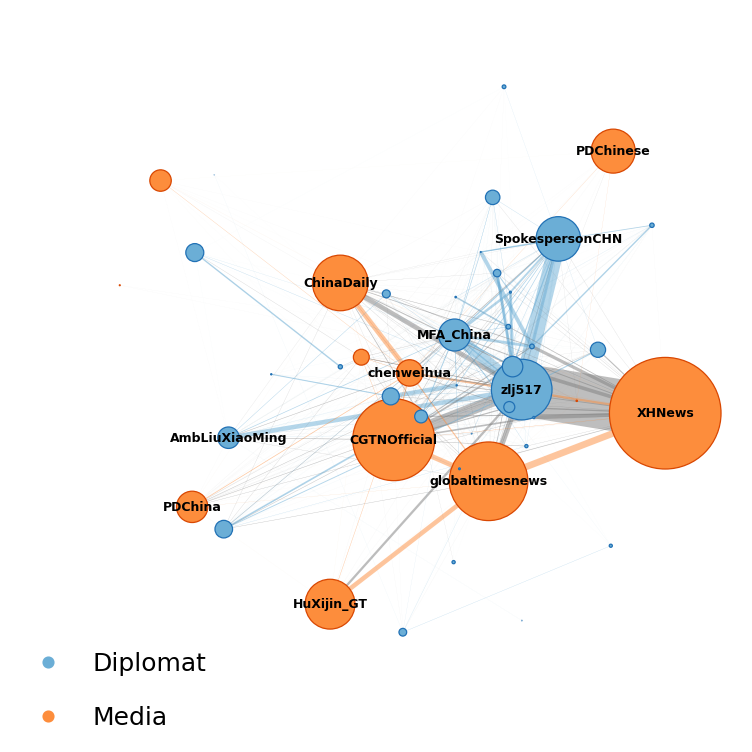
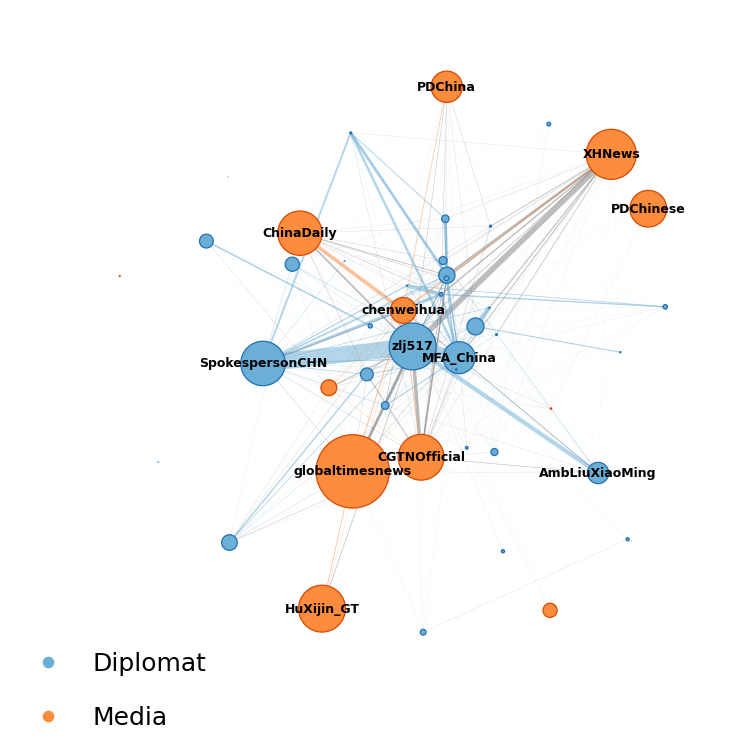
re-run analysis for sanity and small modifications

diff --git a/networks/src/network_main.py b/networks/src/network_main.py
@@ -45,6 +45,7 @@ def get_labels(G, type_str, type_lst, n_labels):
         'SpokespersonCHN', 
         'MFA_China',
         'zlj517',
+        'AmbLiuXiaoMing'
         #'PDChina', 
         #'AmbLiuXiaoMing', 
         #'AmbCuiTianKai',
@@ -299,19 +300,23 @@ def main(n_labels, infile, outfolder):
     title = 'Diplomats and Media sub-network (nodesize: total number of mentions)'
     filename = 'network_focus_mentions'
     
-    ## fix the fact that we now have two files 
-    if infile == "/work/cn-some/china-twitter/networks/data/clean/df_full.csv":
-        nudge_triple = [ # nudge triple specifically for this data & seed
-            ('MFA_China', 0, 0.1),
+
+    if infile == "/work/cn-some/china-twitter/networks/data/clean/df.csv": # have not pruned this yet
+        print('nudging full data set')
+        nudge_triple = [
+            ('MFA_China', 0.05, -0.05),
+            ('chenweihua', -0.03, 0.02),
             ('AmbassadeChine', 0, 0.05),
-            ('PDChina', 0, 0.05),
-            ('ChnMission', -0.05, 0.1),
-            ('consulat_de', -0.05, 0),
-            ('chenweihua', -0.05, 0)
-            ] 
+            ('CHN_UN_NY', -0.06, 0.6),
+            ('ChinaMissionGva', 0, 0.04),
+            ('Chinamission2un', 0.02, 0.055),
+            ('ChnMission', 0, 0.03),
+            ('consulat_de', 0.07, 0)
+        ]
     
-    if infile == "/work/cn-some/china-twitter/networks/data/clean/rt_df_full.csv":
+    else:
         nudge_triple = [ # nudge triple specifically for this data and seed
+        print('nudging retweet data set')
             ('consulat_de', -0.05, 0),
             ('Chinamission2un', 0.05, 0),
             ('zlj517', -0.1, -0.05),
@@ -321,15 +326,7 @@ def main(n_labels, infile, outfolder):
             ('CHN_UN_NY', 0.05, -0.05),
             ('PDChina', 0.05, 0.05)
         ]
-    else: # have not pruned this yet
-        nudge_triple = [
-            ('MFA_China', 0.05, -0.05),
-            ('chenweihua', 0, 0.02),
-            ('AmbassadeChine', 0, 0.05),
-            ('CHN_UN_NY', -0.02, 0.12),
-            ('ChinaMissionGva', 0, 0.02),
-            ('Chinamission2un', 0, 0.02)
-        ]
+
 
     plot_network(
         G = G, 
@@ -341,33 +338,6 @@ def main(n_labels, infile, outfolder):
         edge_color = edgecolor,
         labeldict = labeldict_mentions,
         node_size_lst = nodesize_mentions, 
-        edge_width_lst = edgesize,
-        node_divisor = node_divisor,
-        edge_divisor = edge_divisor,
-        title = title,
-        filename = filename,
-        outfolder = outfolder,
-        k = k,
-        seed = seed,
-        nudge_triple = nudge_triple)
-
-    ## unweighted degree
-    print('--> generating unweighted degree plot')
-    node_divisor = 0.05*10
-    edge_divisor = 100*edge_mult
-    title = 'Diplomats and Media sub-network (nodesize: number of neighbors)'
-    filename = 'network_focus_unweighted_degree'
-
-    plot_network(
-        G = G, 
-        nodelst = nodelst_unweighted,
-        edgelst = edgelst,
-        color_dct = c_node,
-        node_color = nodecolor_unweighted,
-        nodeedge_color = nodeedgecolor_unweighted,
-        edge_color = edgecolor,
-        labeldict = labeldict_unweighted,
-        node_size_lst = nodesize_unweighted, 
         edge_width_lst = edgesize,
         node_divisor = node_divisor,
         edge_divisor = edge_divisor,

diff --git a/networks/src/concat_files.py b/networks/src/concat_files.py
@@ -56,7 +56,7 @@ def main(inpath, outpath, outname, filter_dates = "True", only_retweets = "False
     # only retweets
     if only_retweets == "True": 
         df_clean = df_clean[df_clean["retweet"] == "retweeted"]
-        outname = "rt_" + outname 
+        #outname = "rt_" + outname 
 
     df_clean.to_csv(f"{outpath}{outname}", index = False)
     print("--- finished: preprocessing ---")
